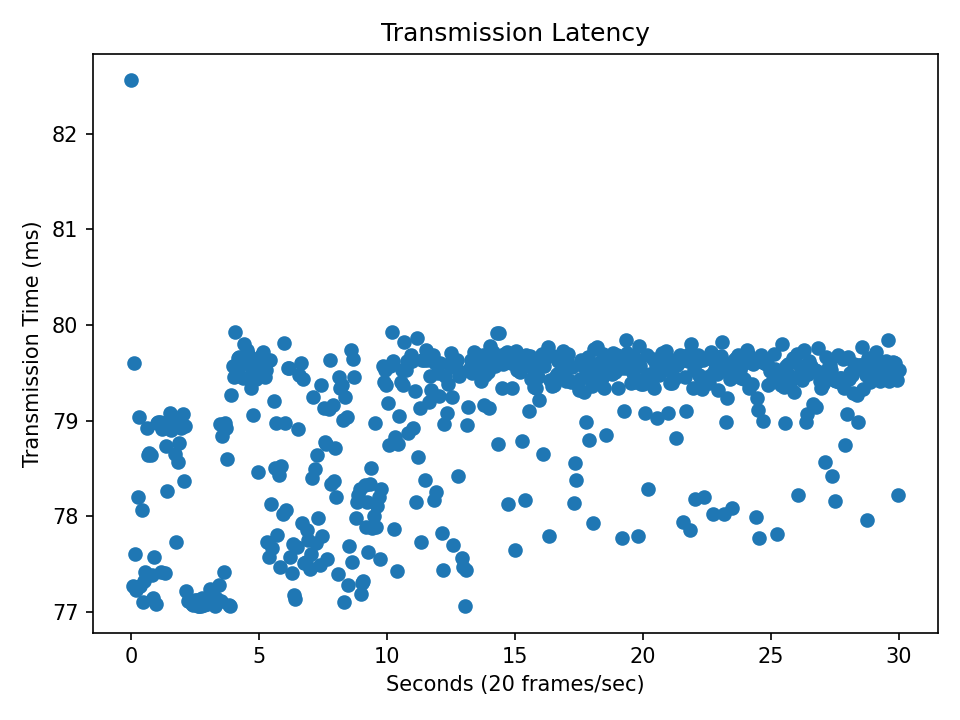
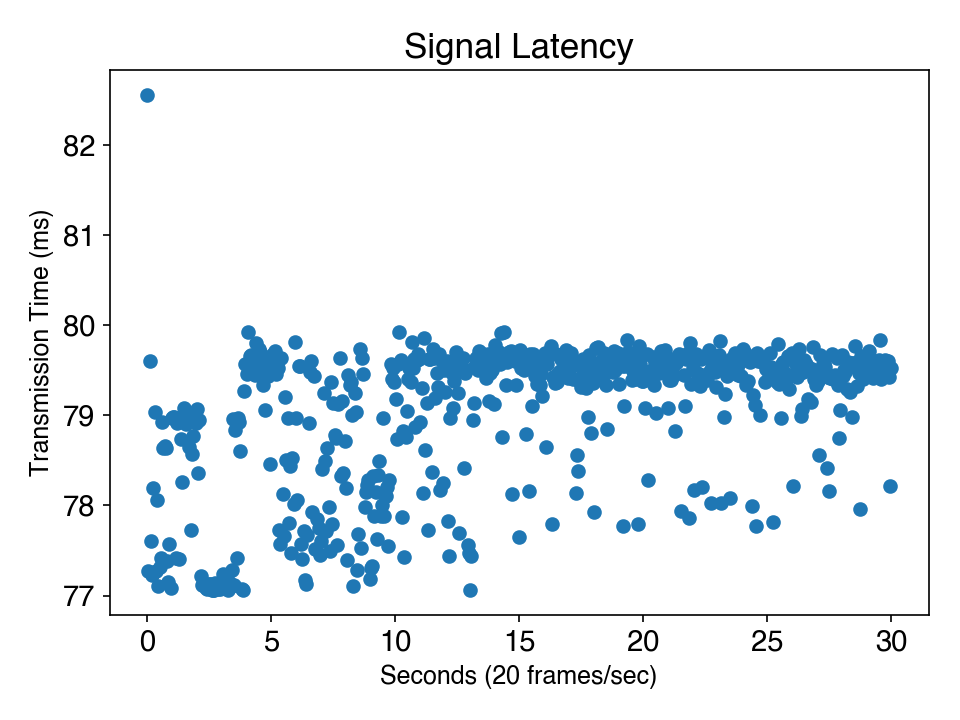
Graphs UwU

diff --git a/generate_graphs.py b/generate_graphs.py
@@ -2,7 +2,13 @@ import matplotlib as mpl
 import numpy as np
 import matplotlib.pyplot as plt
 
-mpl.rcParams['figure.dpi'] = 150
+# mpl.rcParams['figure.dpi'] = 150
+mpl.rcParams.update({
+  "figure.dpi": 150,
+  "font.family": "Helvetica",
+  "font.size": 14,
+  "axes.labelsize": 12
+})
 
 # ----- Customize -----
 max_frames = round(20 * 30)
@@ -44,7 +50,7 @@ axs[1].yaxis.set_tick_params(labelleft=False)
 axs[0].set_yticks([])
 axs[0].set_yticklabels([])
 
-fig.colorbar(pos, ax=axs[0], anchor=(0, 0.5), shrink=0.7)
+fig.colorbar(pos, ax=axs[0], anchor=(0.1, 0.5), shrink=0.7)
 
 data = np.load("./output/spectrogram_mid.npy", allow_pickle=False)
 datapoints = min(data.shape[0], max_frames)
@@ -72,7 +78,7 @@ axs[1].yaxis.set_tick_params(labelleft=False)
 axs[1].set_yticks([])
 axs[1].set_yticklabels([])
 
-fig.colorbar(pos, ax=axs[1], anchor=(0, 0.5), shrink=0.7)
+fig.colorbar(pos, ax=axs[1], anchor=(0.1, 0.5), shrink=0.7)
 
 data = np.load("./output/spectrogram_after.npy", allow_pickle=False)
 datapoints = min(data.shape[0], max_frames)
@@ -100,7 +106,7 @@ axs[2].yaxis.set_tick_params(labelleft=False)
 axs[2].set_yticks([])
 axs[2].set_yticklabels([])
 
-fig.colorbar(pos, ax=axs[2], anchor=(0, 0.5), shrink=0.7)
+fig.colorbar(pos, ax=axs[2], anchor=(0.1, 0.5), shrink=0.7)
 
 plt.tight_layout()
 plt.savefig("./output/spectrogram.png")
@@ -117,9 +123,9 @@ print(np.std(data))
 total_time = data.size // 20 if data.size % 20 == 0 else data.size / 20
 
 plt.scatter(np.linspace(0, total_time, data.size), data)
+plt.title("Signal Latency")
 plt.xlabel("Seconds (20 frames/sec)")
 plt.ylabel("Transmission Time (ms)")
-plt.title("Transmission Latency")
 
 plt.tight_layout()
 plt.savefig("./output/latency.png")
